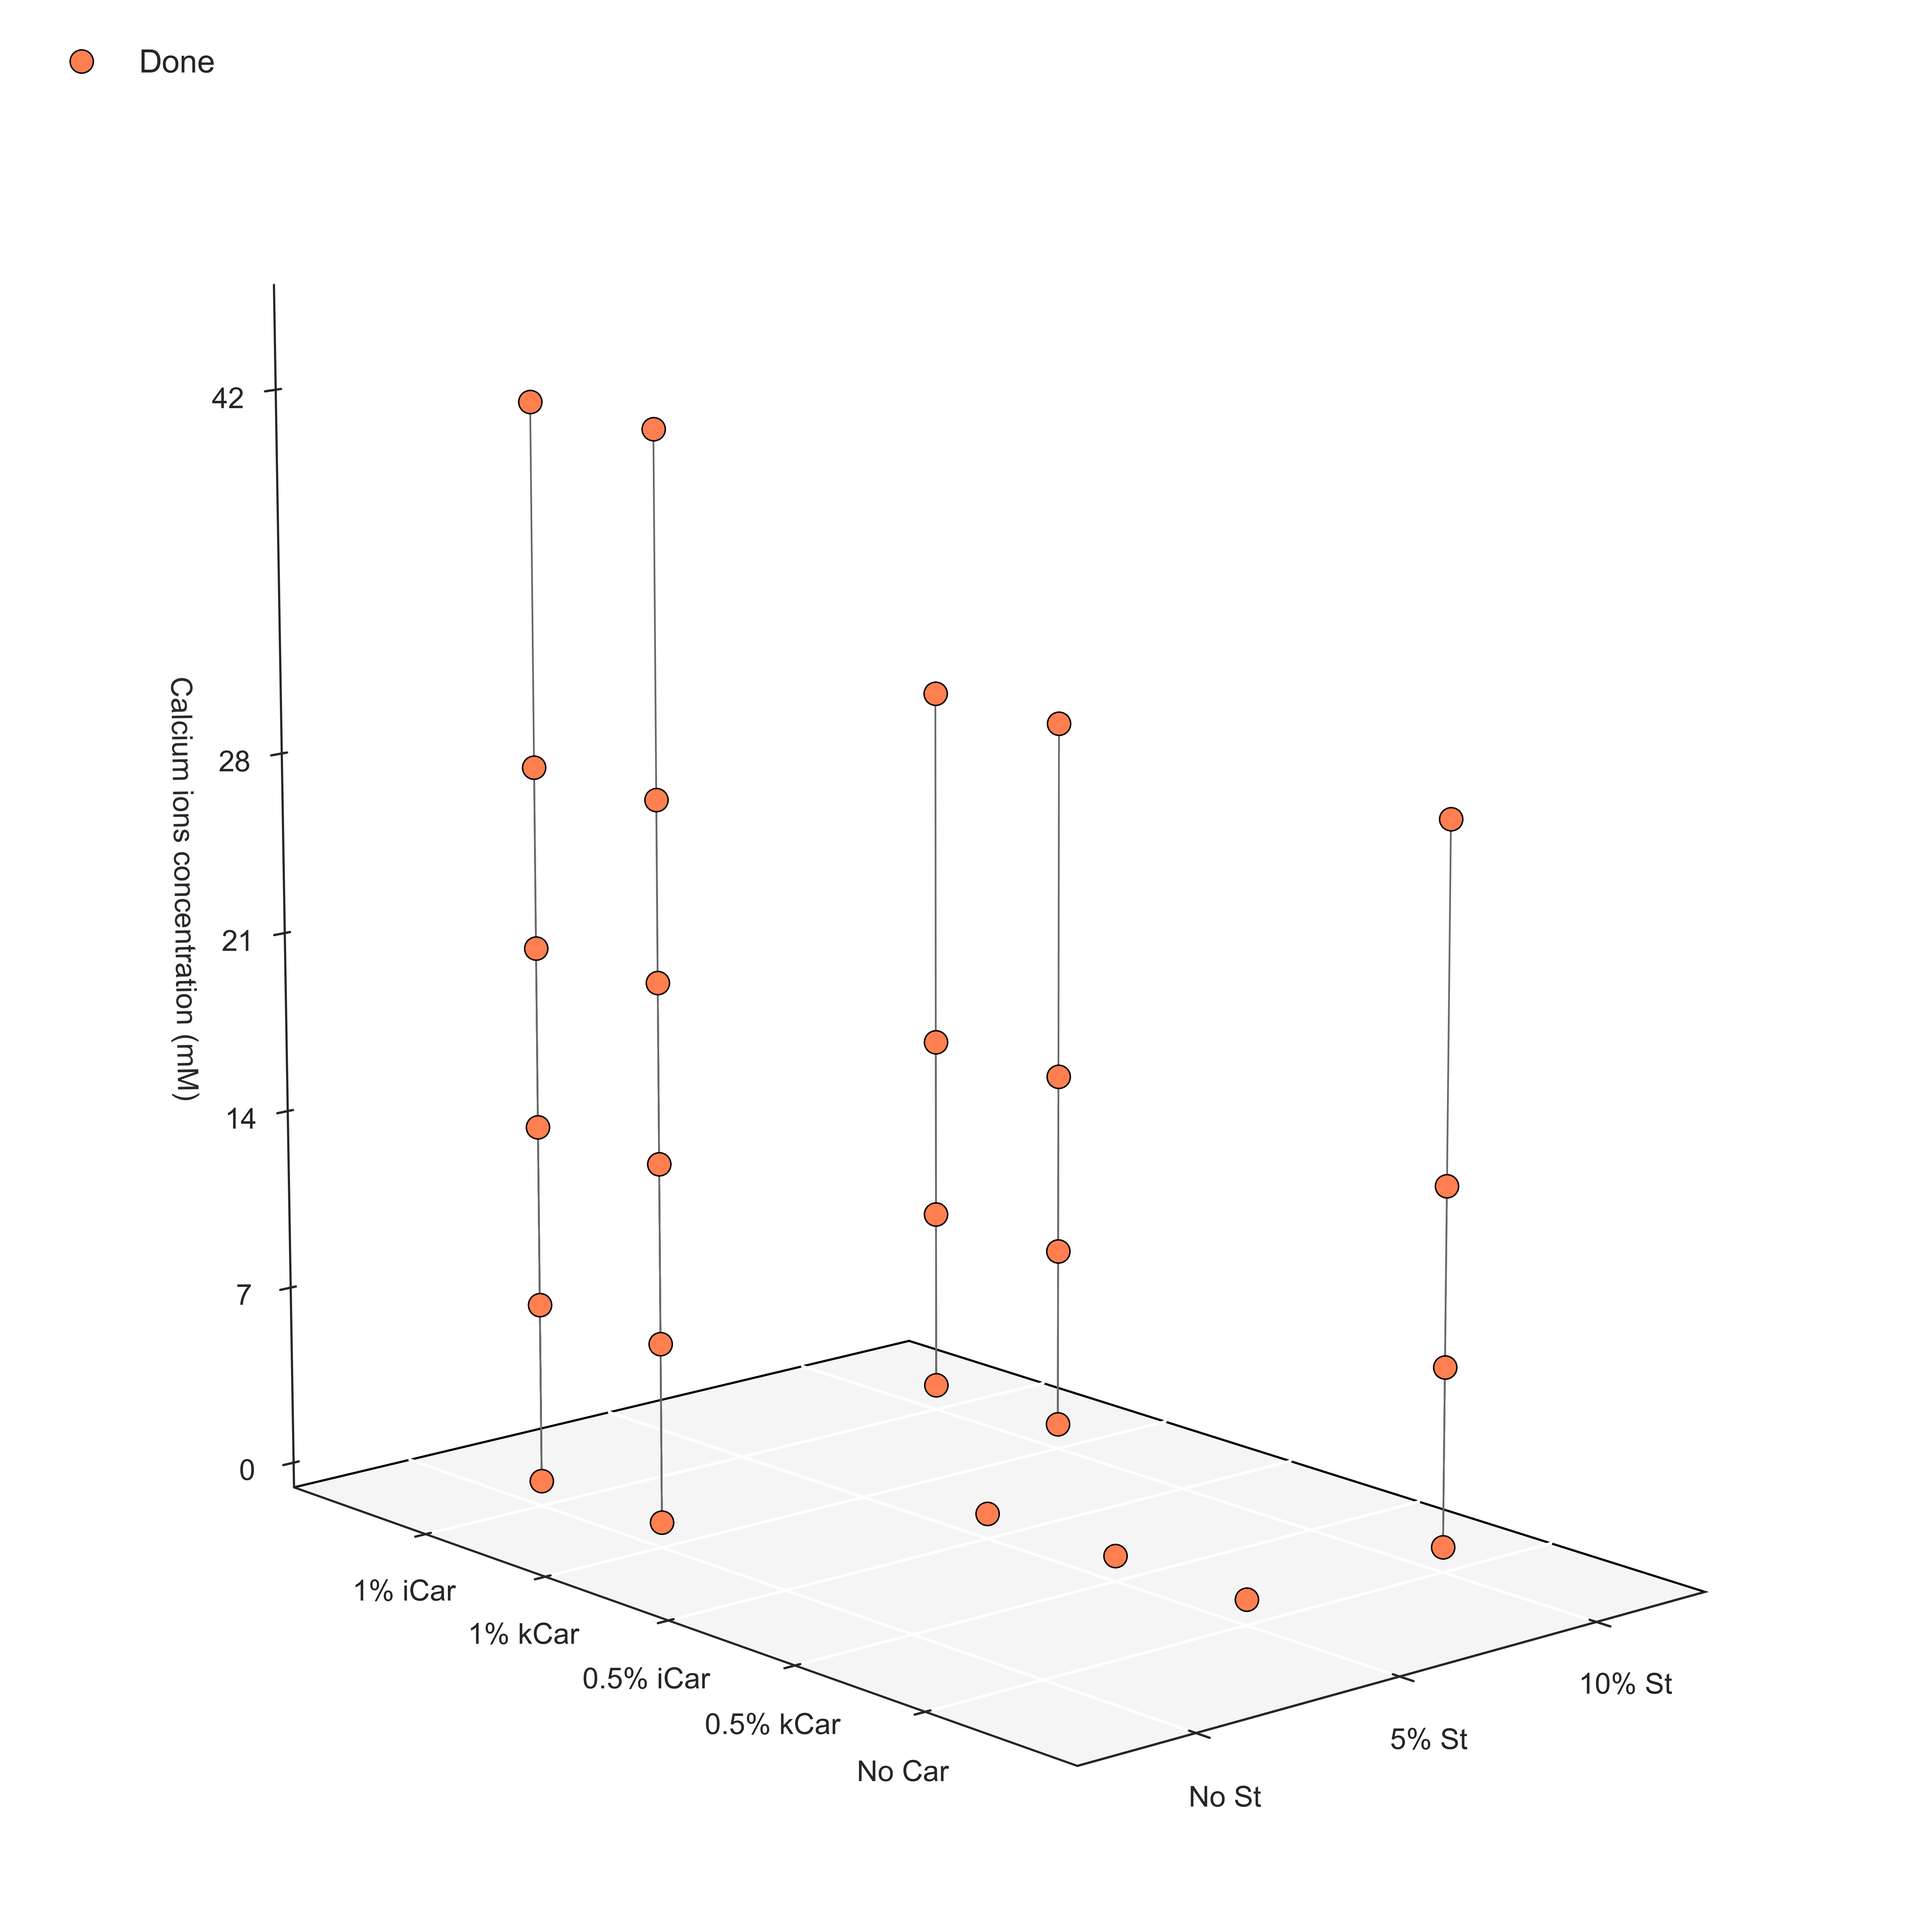
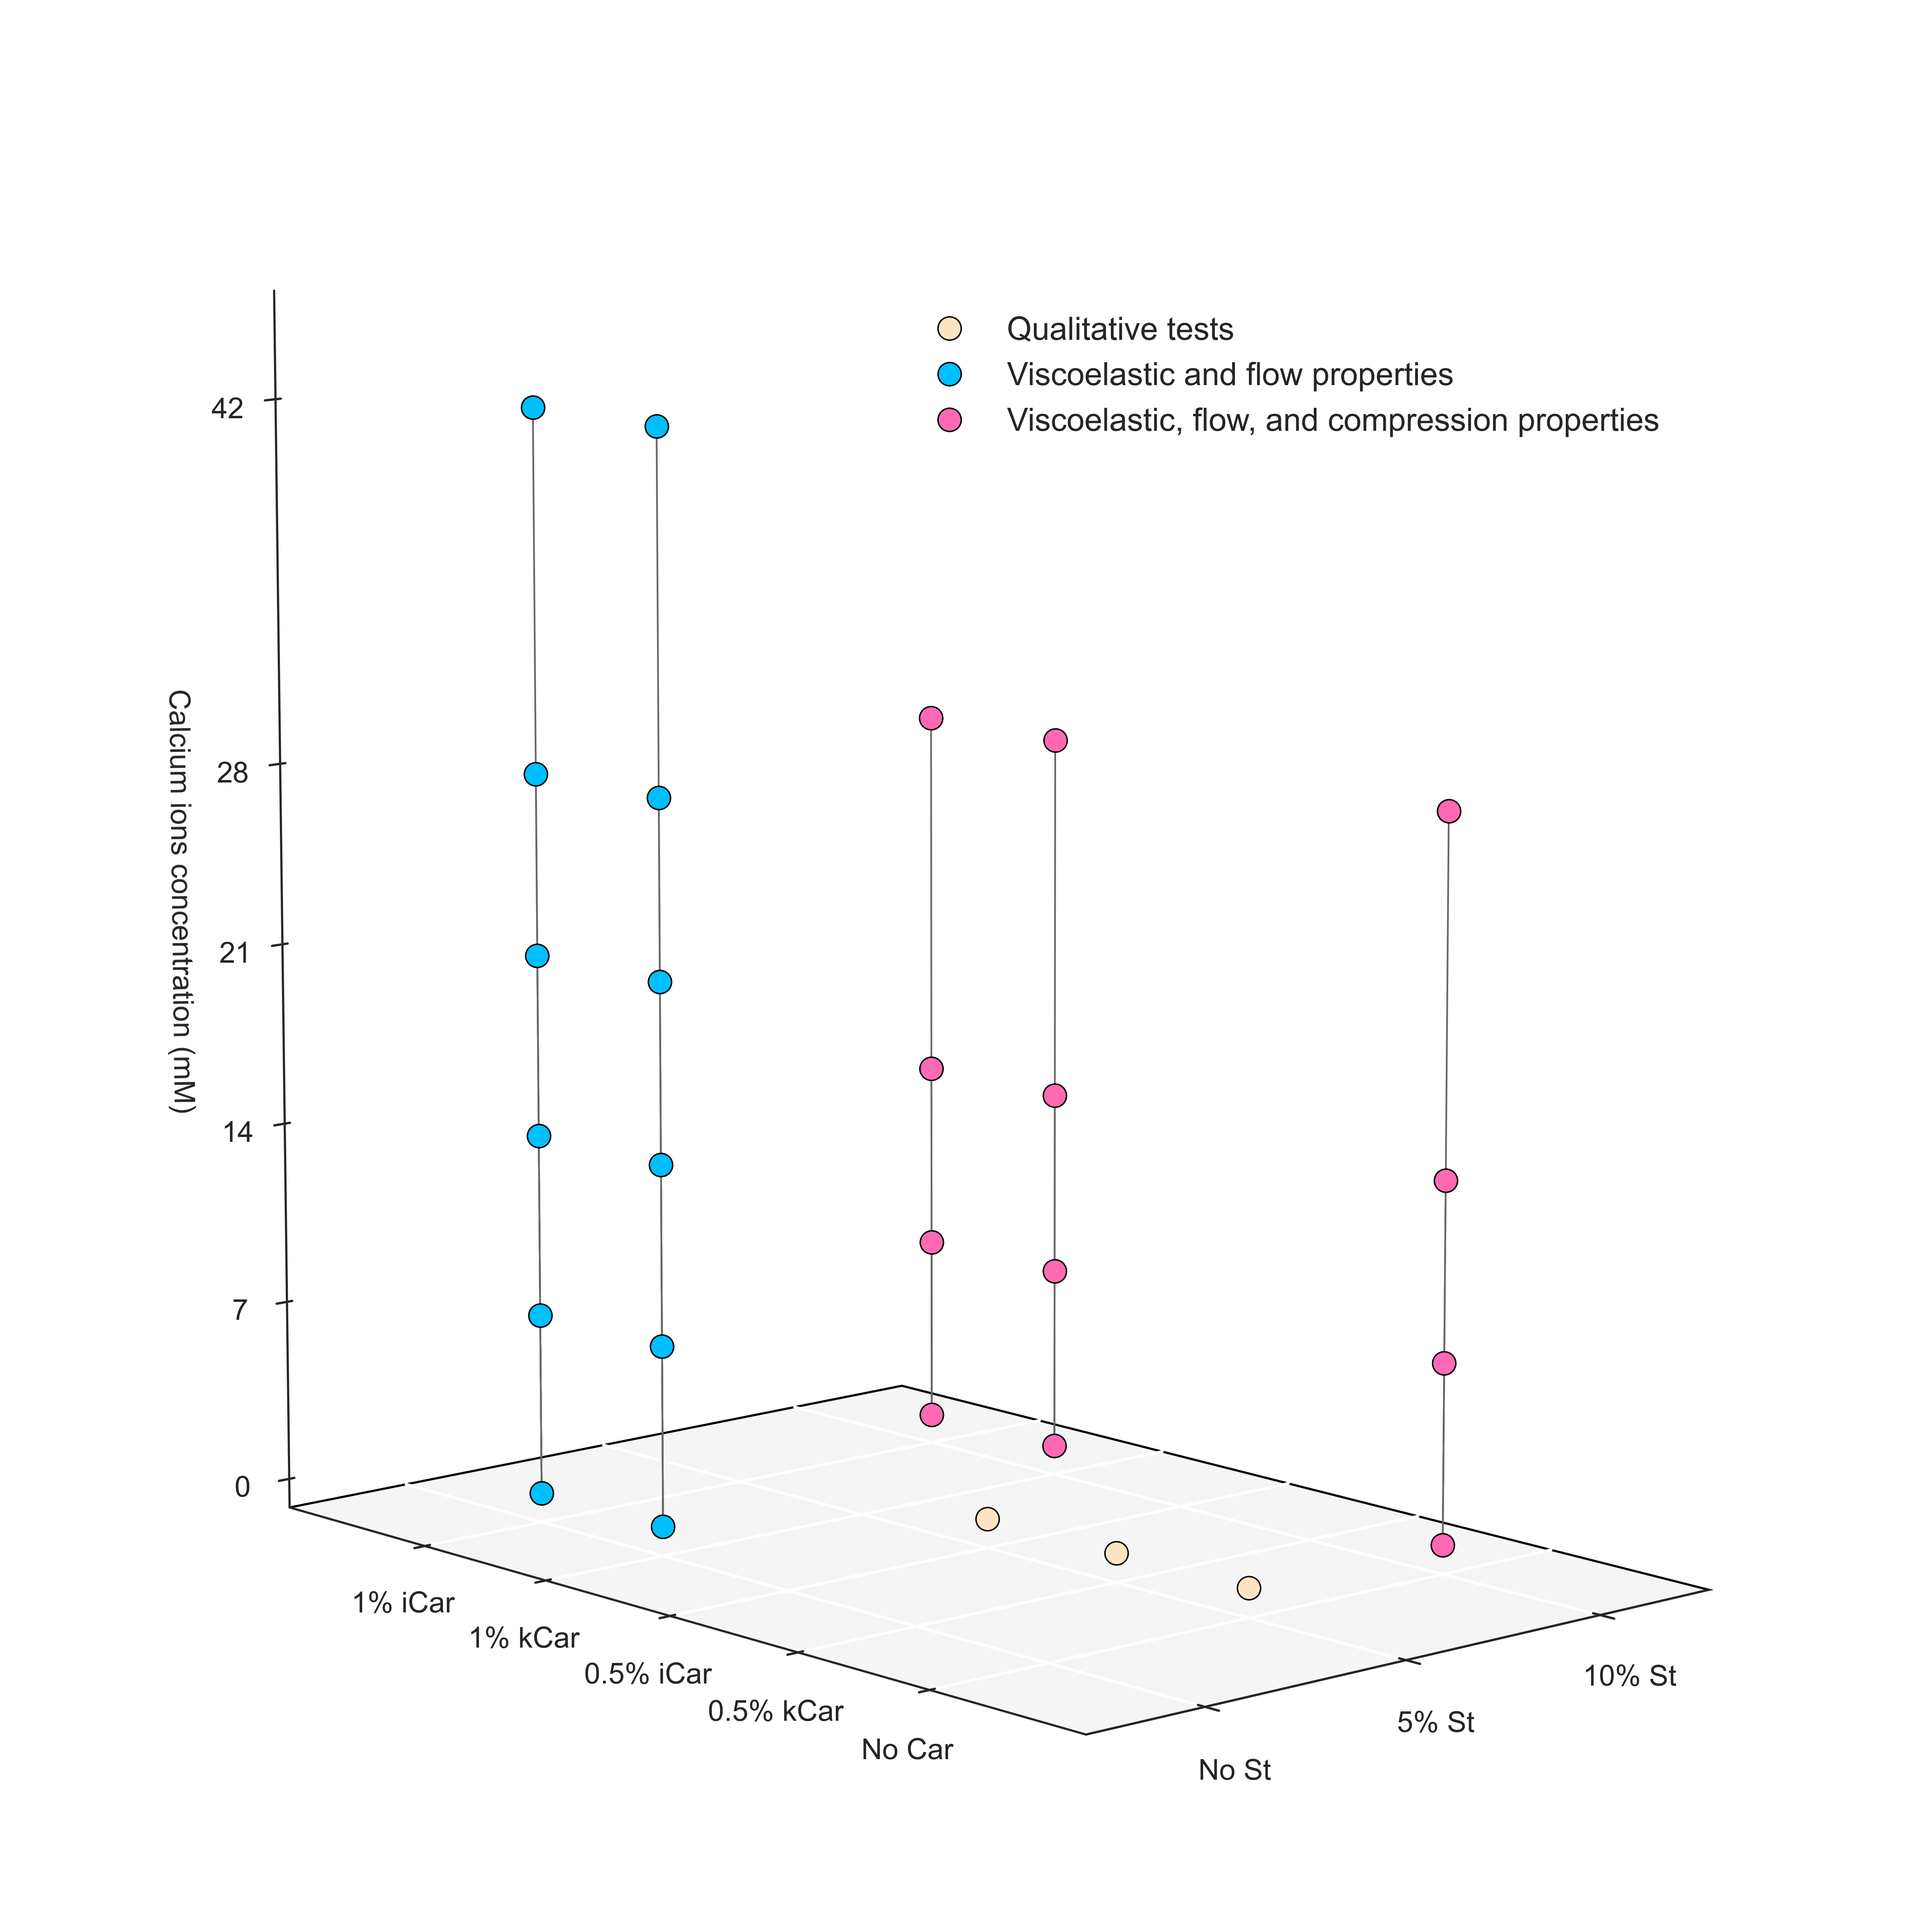
add description to forms

diff --git a/custom plots/SamplesFormulations-Prop.py b/custom plots/SamplesFormulations-Prop.py
@@ -129,22 +129,34 @@ def plot2D(
 
 # [Car type, Starch, CaCl2]
 
-# fivePct = [
-#     [3, 1, 0], [4, 1, 0], [0, 1, 7], [0, 1, 14], [0, 1, 28],
-#     [3, 1, 7], [3, 1, 14], [3, 1, 28],
-#     [4, 1, 7], [4, 1, 14], [4, 1, 28]]
+fivePct = [
+    [3, 1, 0], [4, 1, 0], [0, 1, 7], [0, 1, 14], [0, 1, 28],
+    [3, 1, 7], [3, 1, 14], [3, 1, 28],
+    [4, 1, 7], [4, 1, 14], [4, 1, 28]]
 
 propForms = [
     [1, 2, 0], [1, 2, 7], [1, 2, 14], [1, 2, 28],  # St + kappaCar
     [2, 2, 0], [2, 2, 7], [2, 2, 14], [2, 2, 28]]  # St + iotaCar
 
 doneForms = [
-    [0, 1, 0], [1, 1, 0], [2, 1, 0],
-    [0, 2, 0], [0, 2, 7], [0, 2, 14], [0, 2, 28],
-    [3, 2, 0], [3, 2, 7], [3, 2, 14], [3, 2, 28],
-    [4, 2, 0], [4, 2, 7], [4, 2, 14], [4, 2, 28],
+    [0, 1, 0], [1, 1, 0], [2, 1, 0],               # 5% St
+    [0, 2, 0], [0, 2, 7], [0, 2, 14], [0, 2, 28],  # 10% St
+    [3, 2, 0], [3, 2, 7], [3, 2, 14], [3, 2, 28],  # 1% kappa + St
+    [4, 2, 0], [4, 2, 7], [4, 2, 14], [4, 2, 28],  # 1% iota + St
+    [3, 0, 0], [3, 0, 7], [3, 0, 14], [3, 0, 21], [3, 0, 28], [3, 0, 42],  # 1% kappa
+    [4, 0, 0], [4, 0, 7], [4, 0, 14], [4, 0, 21], [4, 0, 28], [4, 0, 42],  # 1% iota
+]
+
+qualitative = [[0, 1, 0], [1, 1, 0], [2, 1, 0]]
+screening = [
     [3, 0, 0], [3, 0, 7], [3, 0, 14], [3, 0, 21], [3, 0, 28], [3, 0, 42],
-    [4, 0, 0], [4, 0, 7], [4, 0, 14], [4, 0, 21], [4, 0, 28], [4, 0, 42],]
+    [4, 0, 0], [4, 0, 7], [4, 0, 14], [4, 0, 21], [4, 0, 28], [4, 0, 42]
+]
+complete = [
+    [0, 2, 0], [0, 2, 7], [0, 2, 14], [0, 2, 28],  # 10% St
+    [3, 2, 0], [3, 2, 7], [3, 2, 14], [3, 2, 28],  # 1% kappa + St
+    [4, 2, 0], [4, 2, 7], [4, 2, 14], [4, 2, 28],  # 1% iota + St
+]
 
 plt.style.use('seaborn-v0_8-ticks')
 fig = plt.figure(figsize=(11, 9), constrained_layout=False)
@@ -155,7 +167,6 @@ ax = fig.add_subplot(111, projection='3d')
 # plotFormulas3D(
 #     ax, screen, legend='Car crosslinking evaluation',
 #     markerColor='lightskyblue')
-
 # plotFormulas3D(
 #     ax, fivePct, legend='Suspended',
 #     edgeColor='tomato', markerStyle='x',
@@ -163,9 +174,16 @@ ax = fig.add_subplot(111, projection='3d')
 # plotFormulas3D(
 #     ax, propForms, legend='Proposed',
 #     markerColor='mediumslateblue')
+
 plotFormulas3D(
-    ax, doneForms, legend='Done',
-    markerColor='coral')
+    ax, qualitative, legend='Qualitative tests',
+    markerColor='bisque')
+plotFormulas3D(
+    ax, screening, legend='Viscoelastic and flow properties',
+    markerColor='deepskyblue')
+plotFormulas3D(
+    ax, complete, legend='Viscoelastic, flow, and compression properties',
+    markerColor='hotpink')
 
 
 plt.subplots_adjust(
